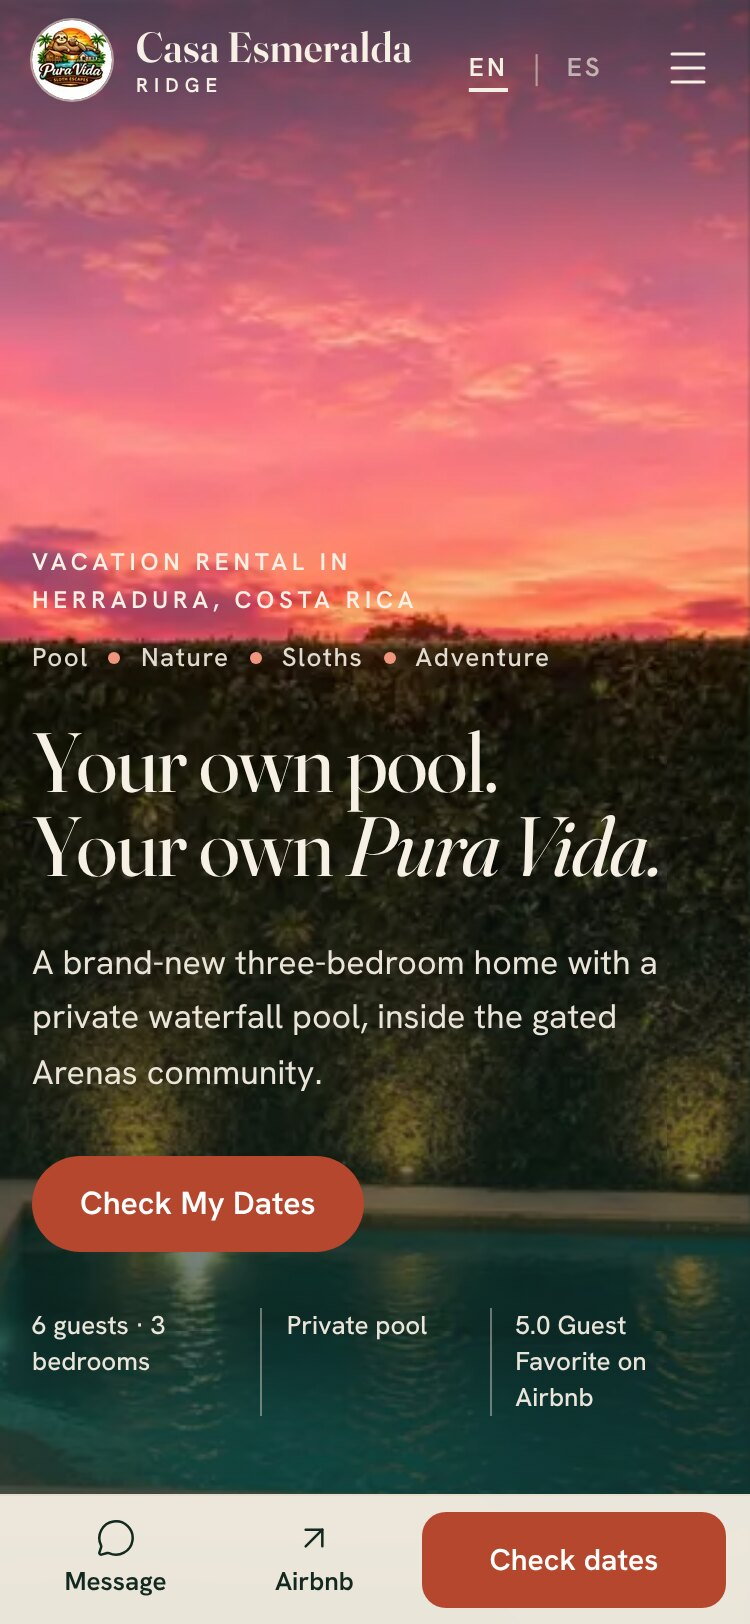
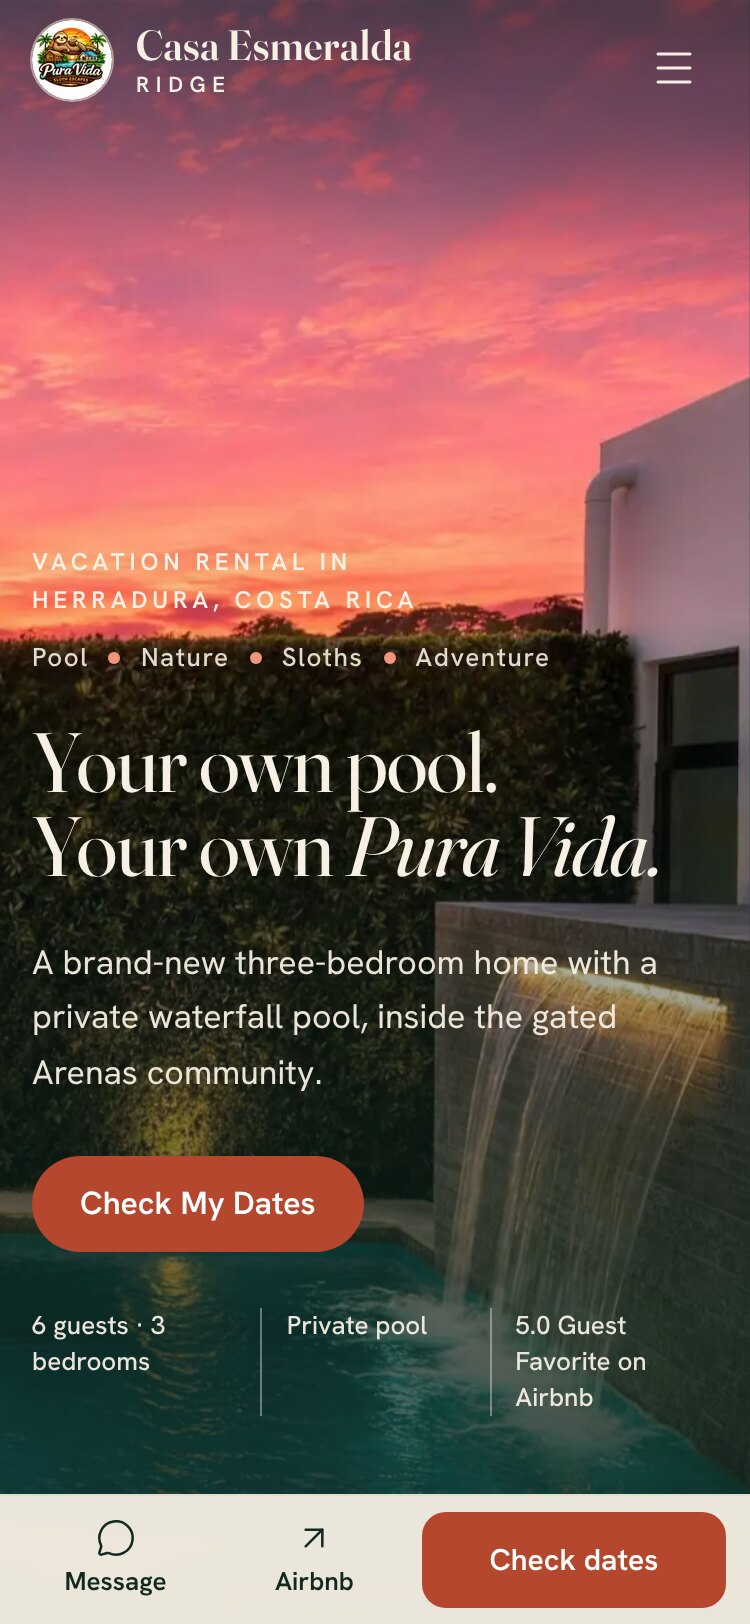
QA pass: fix layout glitches and image sizing across all screen sizes
- Hero side card no longer covers the headline on wide screens (its offset was
  measured against the viewport but positioned inside the 1280px container);
  it now shows from 1280px up so it never sits on the waterfall.
- Phones get a portrait crop of the hero still (pool and waterfall), 720px at 1x
  and 840px at 2x+, so the waterfall is in frame and the image is sharp.
  Tablet and desktop focal point moved to 80% so the waterfall stays in frame.
- Crop-aware image sizes (lib/sizes.ts) for every object-fit: cover frame, so
  arched and cropped photos are no longer blurry.
- Header no longer overflows at 320-399px (language toggle moves to the menu).
- Success screen buttons wrap instead of overflowing at 320px.
- Calendar days at 44px (40px only below 375px so 7 columns fit).
- Bio line dots trail their word so a wrapped line never starts with a dot.
- Footer, Arenas tile labels and the nearby chips row tuned for 768-1279px.
- Wordmark logotype at the 11px floor.
- Screenshots refreshed.

Claude-Session: https://claude.ai/code/session_013uExWAqoNDbion2Jx4jWFZ

diff --git a/components/sections/Hero.tsx b/components/sections/Hero.tsx
@@ -1,6 +1,6 @@
 "use client";
 
-import Image from "next/image";
+import Image, { getImageProps } from "next/image";
 import { useLang } from "@/components/providers/LanguageProvider";
 import { CheckDatesButton } from "@/components/ui/CheckDatesButton";
 import { AirbnbLink } from "@/components/ui/AirbnbLink";
@@ -8,6 +8,17 @@ import { BioLine } from "@/components/ui/BioLine";
 import { Arch } from "@/components/ui/Arch";
 import { HeroVideo } from "./HeroVideo";
 import { photo, src } from "@/lib/gallery";
+import { coverSizes } from "@/lib/sizes";
+
+// AI-generated visual (Higgsfield), approved by Hunter. Swap for real footage when the owner supplies it.
+const { props: heroStill } = getImageProps({
+  src: "/media/generated/gen-03-hero-pool-waterfall-upscaled.jpg",
+  alt: "",
+  fill: true,
+  quality: 70,
+  // Portrait-ish screens need the 4:3 frame at about 134% of the viewport height to cover it.
+  sizes: "(max-aspect-ratio: 4/3) 134vh, 100vw",
+});
 
 export function Hero() {
   const { t, lang } = useLang();
@@ -21,16 +32,15 @@ export function Hero() {
       {/* AI-generated visual (Higgsfield), approved by Hunter. Swap for real footage when the owner supplies it.
           Poster and reduced-motion still: the 4K upscale of the home's own pool photo 01. */}
       <div aria-hidden="true" className="absolute inset-0 -z-10">
-        <Image
-          src="/media/generated/gen-03-hero-pool-waterfall-upscaled.jpg"
-          alt=""
-          fill
-          priority
-          fetchPriority="high"
-          quality={70}
-          sizes="100vw"
-          className="hero-still object-cover object-[60%_55%]"
-        />
+        {/* Phones get a portrait crop of the same still (pre-sized 1x and 2x); larger screens get the landscape frame. */}
+        <picture>
+          <source
+            media="(max-width: 767px)"
+            type="image/webp"
+            srcSet="/media/generated/gen-03-hero-portrait-720.webp 1x, /media/generated/gen-03-hero-portrait-840.webp 2x"
+          />
+          <img {...heroStill} loading="eager" className="hero-still object-cover object-[85%_55%] md:object-[80%_55%]" />
+        </picture>
         <HeroVideo />
         {/* Readability: top fade for the nav, bottom 55% for the headline, a soft left fade on wide screens. */}
         <div className="absolute inset-x-0 top-0 h-40 bg-gradient-to-b from-[rgba(19,41,31,0.55)] to-transparent" />
@@ -76,15 +86,15 @@ export function Hero() {
           </ul>
         </div>
 
-        {/* Desktop only: the dining room opening onto the pool, in the arch. */}
-        <figure className="absolute bottom-24 right-10 hidden w-[220px] lg:block xl:right-[max(2.5rem,calc((100vw-1280px)/2+2.5rem))]">
+        {/* Wide screens only (1280px+), where it sits beside the waterfall instead of over it. */}
+        <figure className="absolute bottom-24 right-10 hidden w-[220px] xl:block">
           <Arch className="border-limestone/40 bg-[rgba(19,41,31,0.25)] backdrop-blur-[2px]">
             <div className="relative aspect-[3/4]">
               <Image
                 src={src(side)}
                 alt={side.alt[lang]}
                 fill
-                sizes="220px"
+                sizes={coverSizes(side, 3 / 4, ["220px"])}
                 quality={75}
                 className="object-cover object-[55%_50%]"
               />

diff --git a/components/sections/Arenas.tsx b/components/sections/Arenas.tsx
@@ -19,7 +19,7 @@ function Tile({ id, label, className, sizes, pos }: { id: string; label: string;
         style={pos ? { objectPosition: pos } : undefined}
       />
       <div aria-hidden="true" className="absolute inset-0 bg-gradient-to-t from-[rgba(19,41,31,0.85)] via-[rgba(19,41,31,0.15)] via-55% to-transparent" />
-      <figcaption className="absolute inset-x-0 bottom-0 p-5 font-display text-[1.375rem] leading-tight text-limestone sm:p-6 sm:text-[1.5rem]">
+      <figcaption className="absolute inset-x-0 bottom-0 p-5 font-display text-[1.375rem] leading-tight text-limestone sm:p-6 sm:text-[1.5rem] lg:p-5 lg:text-[1.25rem] xl:p-6 xl:text-[1.5rem]">
         {label}
       </figcaption>
     </figure>
@@ -48,11 +48,11 @@ export function Arenas() {
         </div>
 
         <div className="mt-4 grid gap-4 sm:grid-cols-2 lg:grid-cols-4 lg:grid-rows-[240px_240px_auto] [grid-template-areas:'pool''gym''courts''cowork''kids''rest'] sm:[grid-template-areas:'pool_pool''gym_courts''cowork_courts''kids_kids''rest_rest'] lg:[grid-template-areas:'pool_pool_gym_courts''pool_pool_cowork_courts''kids_kids_rest_rest']">
-          <Tile id="26" label={t.arenas.tiles.pool} className="[grid-area:pool] min-h-[280px] sm:min-h-[340px]" sizes="(min-width: 1024px) 620px, 100vw" pos="50% 60%" />
-          <Tile id="30" label={t.arenas.tiles.gym} className="[grid-area:gym]" sizes="(min-width: 1024px) 300px, (min-width: 640px) 50vw, 100vw" />
-          <Tile id="34" label={t.arenas.tiles.courts} className="[grid-area:courts]" sizes="(min-width: 1024px) 300px, (min-width: 640px) 50vw, 100vw" pos="50% 70%" />
-          <Tile id="28" label={t.arenas.tiles.cowork} className="[grid-area:cowork]" sizes="(min-width: 1024px) 300px, (min-width: 640px) 50vw, 100vw" />
-          <Tile id="33" label={t.arenas.tiles.kids} className="[grid-area:kids] min-h-[260px]" sizes="(min-width: 1024px) 620px, 100vw" pos="40% 55%" />
+          <Tile id="26" label={t.arenas.tiles.pool} className="[grid-area:pool] min-h-[280px] sm:min-h-[340px]" sizes="(min-width: 1024px) 890px, (min-width: 640px) 100vw, 146vw" pos="50% 60%" />
+          <Tile id="30" label={t.arenas.tiles.gym} className="[grid-area:gym]" sizes="(min-width: 1024px) 430px, (min-width: 640px) 56vw, 115vw" />
+          <Tile id="34" label={t.arenas.tiles.courts} className="[grid-area:courts]" sizes="(min-width: 1024px) 500px, (min-width: 640px) 65vw, 100vw" pos="50% 70%" />
+          <Tile id="28" label={t.arenas.tiles.cowork} className="[grid-area:cowork]" sizes="(min-width: 1024px) 430px, (min-width: 640px) 56vw, 115vw" />
+          <Tile id="33" label={t.arenas.tiles.kids} className="[grid-area:kids] min-h-[260px]" sizes="(min-width: 1024px) 620px, (min-width: 640px) 100vw, 135vw" pos="40% 55%" />
           <div className="flex flex-col justify-center rounded-[20px] border border-limestone/20 p-6 [grid-area:rest] sm:p-8">
             <h3 className="eyebrow text-[0.75rem] text-accent-light">{t.arenas.restTitle}</h3>
             <ul className="mt-4 flex flex-wrap gap-2">

diff --git a/components/sections/Nearby.tsx b/components/sections/Nearby.tsx
@@ -6,6 +6,7 @@ import { useLang } from "@/components/providers/LanguageProvider";
 import { Placeholder } from "@/components/ui/Placeholder";
 import { business } from "@/lib/business";
 import { photo, src } from "@/lib/gallery";
+import { coverSizes } from "@/lib/sizes";
 
 // Out the gate. No distances other than the host's own "5 minutes".
 export function Nearby() {
@@ -25,7 +26,7 @@ export function Nearby() {
                       src={src(p)}
                       alt={p.alt[lang]}
                       fill
-                      sizes="(min-width: 1024px) 300px, 48vw"
+                      sizes={coverSizes(p, 3 / 4, ["(min-width: 1024px) 300px", "48vw"])}
                       className="object-cover"
                     />
                   </div>
@@ -39,7 +40,7 @@ export function Nearby() {
           })}
         </ul>
 
-        <div className="mt-12 flex flex-col gap-6 lg:flex-row lg:items-center lg:justify-between">
+        <div className="mt-12 flex flex-col gap-6 xl:flex-row xl:items-center xl:justify-between">
           <div>
             <h3 className="eyebrow text-[0.75rem] text-muted">{t.nearby.chipsLabel}</h3>
             <ul className="mt-3 flex flex-wrap gap-2">

diff --git a/app/globals.css b/app/globals.css
@@ -199,10 +199,10 @@
   --rdp-range_end-date-background-color: var(--color-accent);
   --rdp-range_start-color: #fff;
   --rdp-range_end-color: #fff;
-  --rdp-day-width: 44px;
-  --rdp-day-height: 44px;
-  --rdp-day_button-width: 42px;
-  --rdp-day_button-height: 42px;
+  --rdp-day-width: 46px;
+  --rdp-day-height: 46px;
+  --rdp-day_button-width: 44px;
+  --rdp-day_button-height: 44px;
   --rdp-selected-border: 2px solid var(--color-accent);
   --rdp-today-color: var(--color-accent);
   --rdp-disabled-opacity: 0.35;
@@ -214,6 +214,9 @@
   font-size: 0.9375rem;
 }
 .planner-calendar .rdp-months { gap: 2rem; flex-wrap: wrap; }
+@media (max-width: 374px) {
+  .planner-calendar .rdp-root { --rdp-day-width: 40px; --rdp-day-height: 42px; --rdp-day_button-width: 40px; --rdp-day_button-height: 40px; }
+}
 .planner-calendar .rdp-caption_label { font-family: var(--font-display); font-size: 1.25rem; font-weight: 400; }
 .planner-calendar .rdp-weekday { color: var(--color-muted); font-weight: 600; font-size: 0.8125rem; opacity: 1; }
 .planner-calendar .rdp-chevron { fill: var(--color-ink); }

diff --git a/components/sections/ContactPage.tsx b/components/sections/ContactPage.tsx
@@ -9,6 +9,7 @@ import { StayPlanner } from "@/components/StayPlanner/StayPlanner";
 import { business } from "@/lib/business";
 import { messageHref } from "@/lib/contact";
 import { photo, src } from "@/lib/gallery";
+import { coverSizes } from "@/lib/sizes";
 
 const tileIcon: Record<string, LucideIcon> = { message: MessageCircle, airbnb: ArrowUpRight, instagram: Instagram };
 const tileHref: Record<string, string> = { message: messageHref, airbnb: business.links.airbnb, instagram: business.links.instagram };
@@ -41,7 +42,7 @@ export function ContactPage() {
             </div>
             <Arch className="mx-auto w-full max-w-[360px]">
               <div className="relative aspect-[4/5]">
-                <Image src={src(front)} alt={front.alt[lang]} fill priority sizes="360px" className="object-cover" />
+                <Image src={src(front)} alt={front.alt[lang]} fill priority sizes={coverSizes(front, 4 / 5, ["360px"])} className="object-cover" />
               </div>
             </Arch>
           </div>

diff --git a/components/DayDial/DayDial.tsx b/components/DayDial/DayDial.tsx
@@ -7,6 +7,7 @@ import { useLang } from "@/components/providers/LanguageProvider";
 import { CheckDatesButton } from "@/components/ui/CheckDatesButton";
 import { dayStops, SUNSET_INDEX } from "@/lib/day";
 import { photo, src } from "@/lib/gallery";
+import { coverSizes } from "@/lib/sizes";
 
 const STEP = 100; // the range runs 0..500 so dragging feels continuous, then snaps to one of six stops
 const MAX = (dayStops.length - 1) * STEP;
@@ -133,7 +134,7 @@ export function DayDial() {
                   aria-hidden={show ? undefined : true}
                   fill
                   draggable={false}
-                  sizes="(min-width: 1160px) 1080px, 100vw"
+                  sizes={`(min-width: 1160px) 1080px, (min-width: 640px) 100vw, ${coverSizes(p, 4 / 5, ["100vw"])}`}
                   className={`object-cover transition-opacity duration-500 ease-out ${show ? "opacity-100" : "opacity-0"}`}
                   style={{ objectPosition: focal[s.photo] }}
                 />

diff --git a/components/sections/House.tsx b/components/sections/House.tsx
@@ -10,6 +10,7 @@ import { useLang } from "@/components/providers/LanguageProvider";
 import { Arch } from "@/components/ui/Arch";
 import { Placeholder } from "@/components/ui/Placeholder";
 import { photo, src } from "@/lib/gallery";
+import { coverSizes } from "@/lib/sizes";
 
 const amenityIcons: LucideIcon[] = [Wifi, Laptop, Tv, WashingMachine, SquareParking, PlugZap, KeyRound, DoorOpen, AlarmSmoke];
 
@@ -64,7 +65,7 @@ export function House() {
                           src={src(p)}
                           alt={p.alt[lang]}
                           fill
-                          sizes="(min-width: 640px) 300px, 78vw"
+                          sizes={coverSizes(p, 3 / 4.2, ["(min-width: 640px) 300px", "78vw"])}
                           className="object-cover"
                         />
                       ) : (

diff --git a/components/sections/TwoWorlds.tsx b/components/sections/TwoWorlds.tsx
@@ -6,6 +6,7 @@ import { useLang } from "@/components/providers/LanguageProvider";
 import { CheckDatesButton } from "@/components/ui/CheckDatesButton";
 import { Arch } from "@/components/ui/Arch";
 import { photo, src } from "@/lib/gallery";
+import { coverSizes } from "@/lib/sizes";
 
 const privateIcons: LucideIcon[] = [Waves, Flame, Tv, CookingPot];
 const arenasIcons: LucideIcon[] = [Droplets, Dumbbell, Laptop, Puzzle];
@@ -50,7 +51,7 @@ export function TwoWorlds() {
                   src={src(deck)}
                   alt={deck.alt[lang]}
                   fill
-                  sizes="(min-width: 768px) 400px, 90vw"
+                  sizes={coverSizes(deck, 4 / 5, ["(min-width: 768px) 400px", "90vw"])}
                   className="object-cover object-[45%_50%]"
                 />
               </div>

diff --git a/lib/sizes.ts b/lib/sizes.ts
@@ -1,0 +1,16 @@
+import type { Photo } from "./gallery";
+
+/**
+ * `sizes` for an object-fit: cover image. When the frame's shape differs from the photo's,
+ * cover crops the photo and the browser needs a wider file than the frame's width.
+ * `frameAspect` is the frame's width / height; `slots` are normal sizes entries ("(min-width: 640px) 300px", "78vw").
+ * Each width is multiplied by how much the crop enlarges the photo, rounded up.
+ */
+export function coverSizes(p: Pick<Photo, "width" | "height">, frameAspect: number, slots: string[]): string {
+  const factor = Math.max(1, p.width / p.height / frameAspect);
+  return slots
+    .map((slot) =>
+      slot.replace(/(\d+(?:\.\d+)?)(px|vw|vh)\s*$/, (_, n: string, unit: string) => `${Math.ceil(Number(n) * factor)}${unit}`)
+    )
+    .join(", ");
+}

diff --git a/components/sections/Proof.tsx b/components/sections/Proof.tsx
@@ -7,6 +7,7 @@ import { CheckDatesButton } from "@/components/ui/CheckDatesButton";
 import { Arch } from "@/components/ui/Arch";
 import { Placeholder } from "@/components/ui/Placeholder";
 import { photo, src } from "@/lib/gallery";
+import { coverSizes } from "@/lib/sizes";
 
 const icons: LucideIcon[] = [Users, Languages, Clock, KeyRound];
 
@@ -23,7 +24,7 @@ export function Proof() {
               src={src(front)}
               alt={front.alt[lang]}
               fill
-              sizes="(min-width: 768px) 460px, 92vw"
+              sizes={coverSizes(front, 4 / 5, ["(min-width: 768px) 460px", "92vw"])}
               className="object-cover object-[50%_50%]"
             />
           </div>

diff --git a/components/ui/BioLine.tsx b/components/ui/BioLine.tsx
@@ -6,9 +6,9 @@ export function BioLine({ dark = false, className = "" }: { dark?: boolean; clas
   return (
     <p className={`flex flex-wrap items-center gap-x-2.5 gap-y-1 ${className}`}>
       {business.bioLine.map((w, i) => (
-        <span key={w} className="inline-flex items-center gap-2.5">
-          {i > 0 && <span aria-hidden="true" className={`inline-block size-1.5 rounded-full ${dot}`} />}
+        <span key={w} className="inline-flex items-center gap-2.5 whitespace-nowrap">
           <span>{w}</span>
+          {i < business.bioLine.length - 1 && <span aria-hidden="true" className={`inline-block size-1.5 rounded-full ${dot}`} />}
         </span>
       ))}
     </p>

diff --git a/components/sections/HeroVideo.tsx b/components/sections/HeroVideo.tsx
@@ -44,7 +44,7 @@ export function HeroVideo() {
       width={1600}
       height={1200}
       onPlaying={() => setPlaying(true)}
-      className={`absolute inset-0 h-full w-full object-cover object-[60%_55%] transition-opacity duration-700 ${playing ? "opacity-100" : "opacity-0"}`}
+      className={`absolute inset-0 h-full w-full object-cover object-[80%_55%] transition-opacity duration-700 ${playing ? "opacity-100" : "opacity-0"}`}
     >
       <source src="/media/generated/gen-02-hero-pool-waterfall-loop-webm.webm" type="video/webm" />
       <source src="/media/generated/gen-01-hero-pool-waterfall-loop.mp4" type="video/mp4" />
